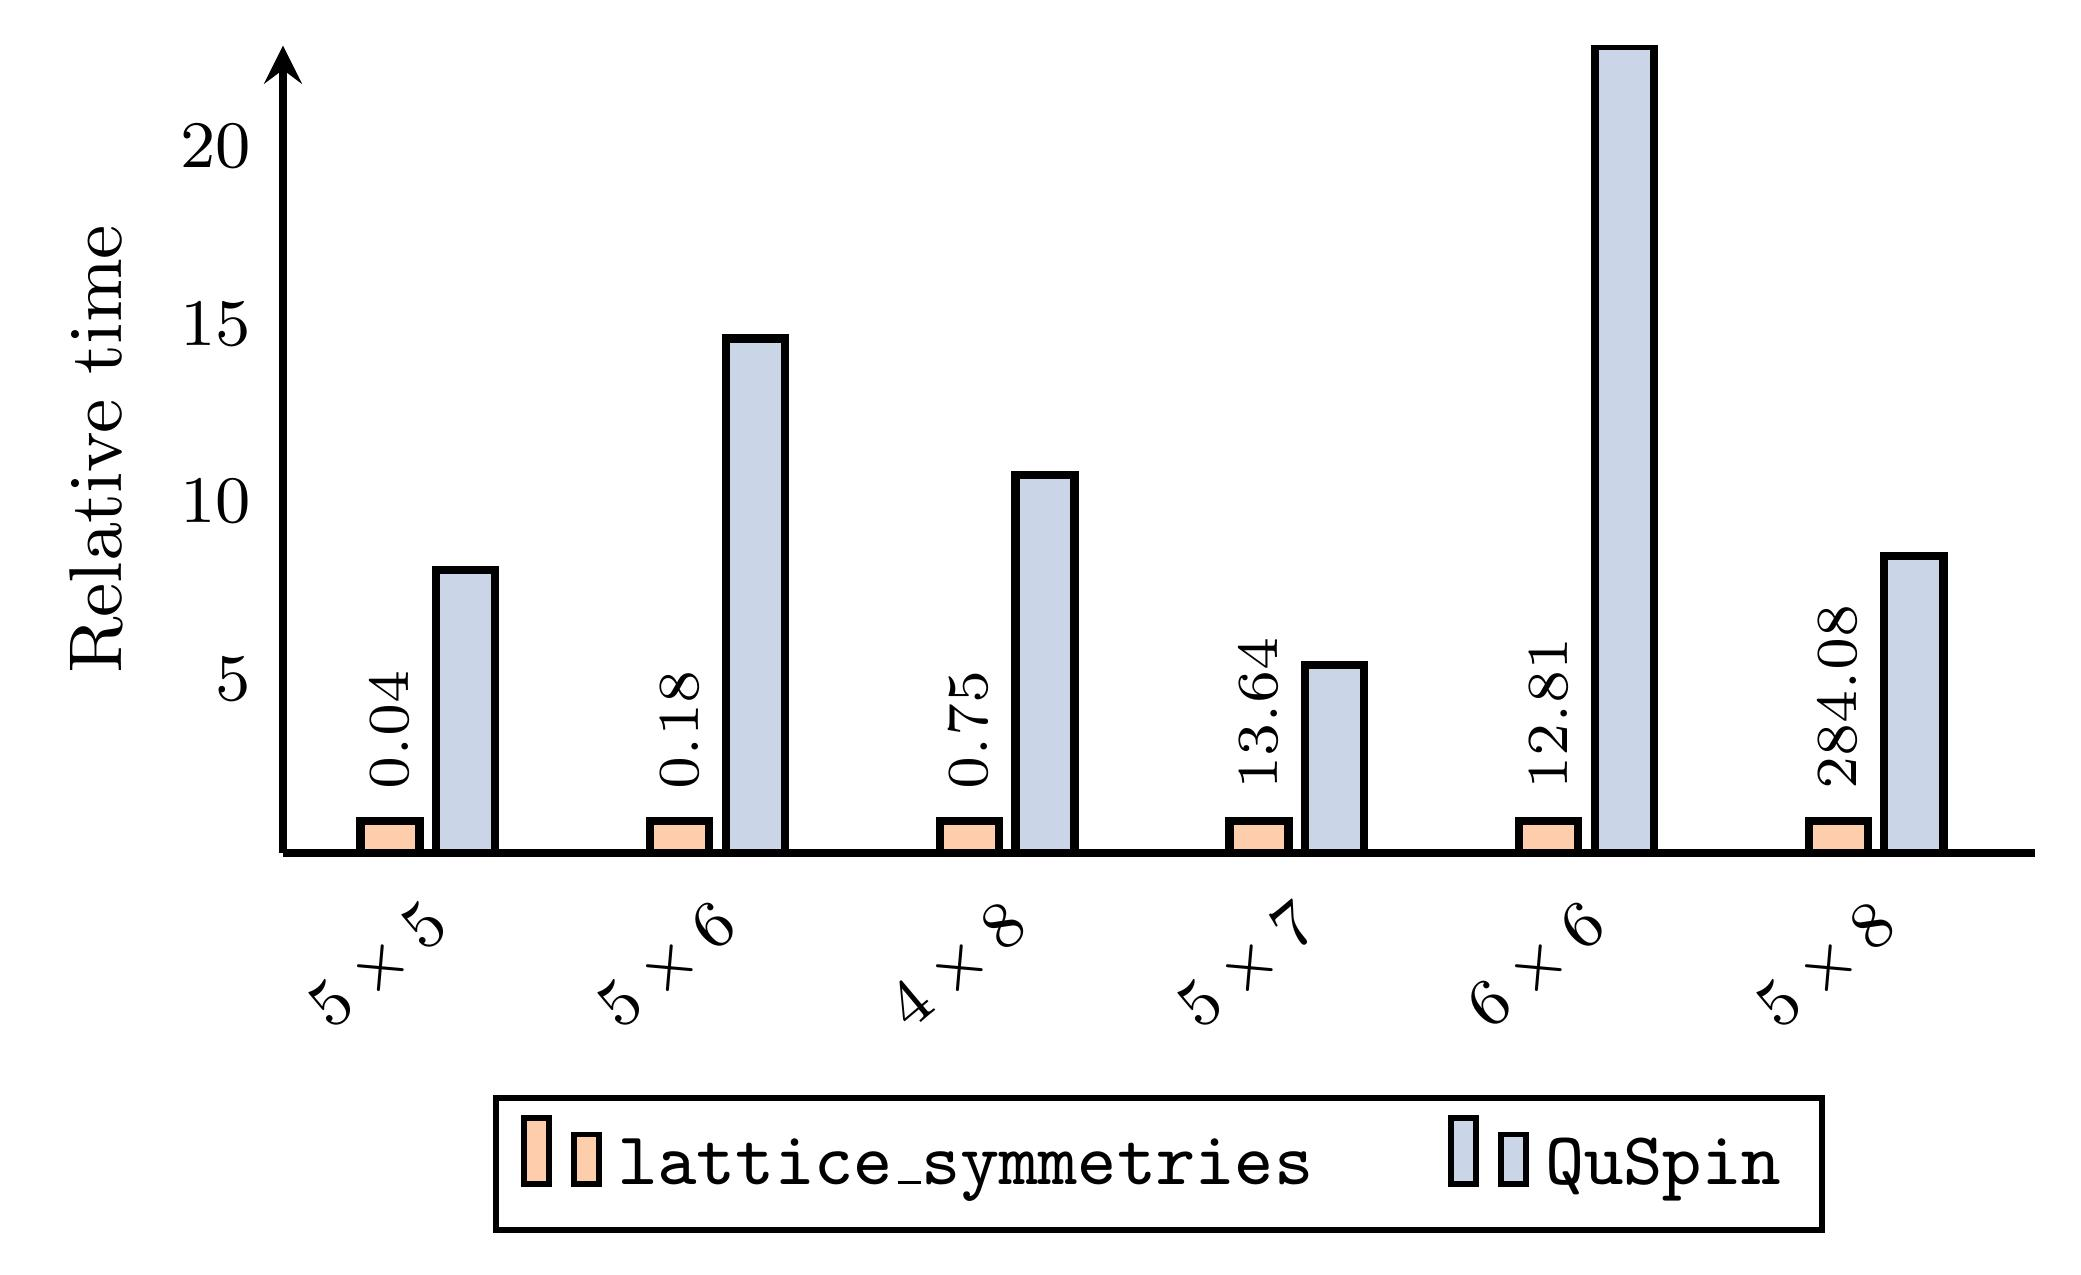
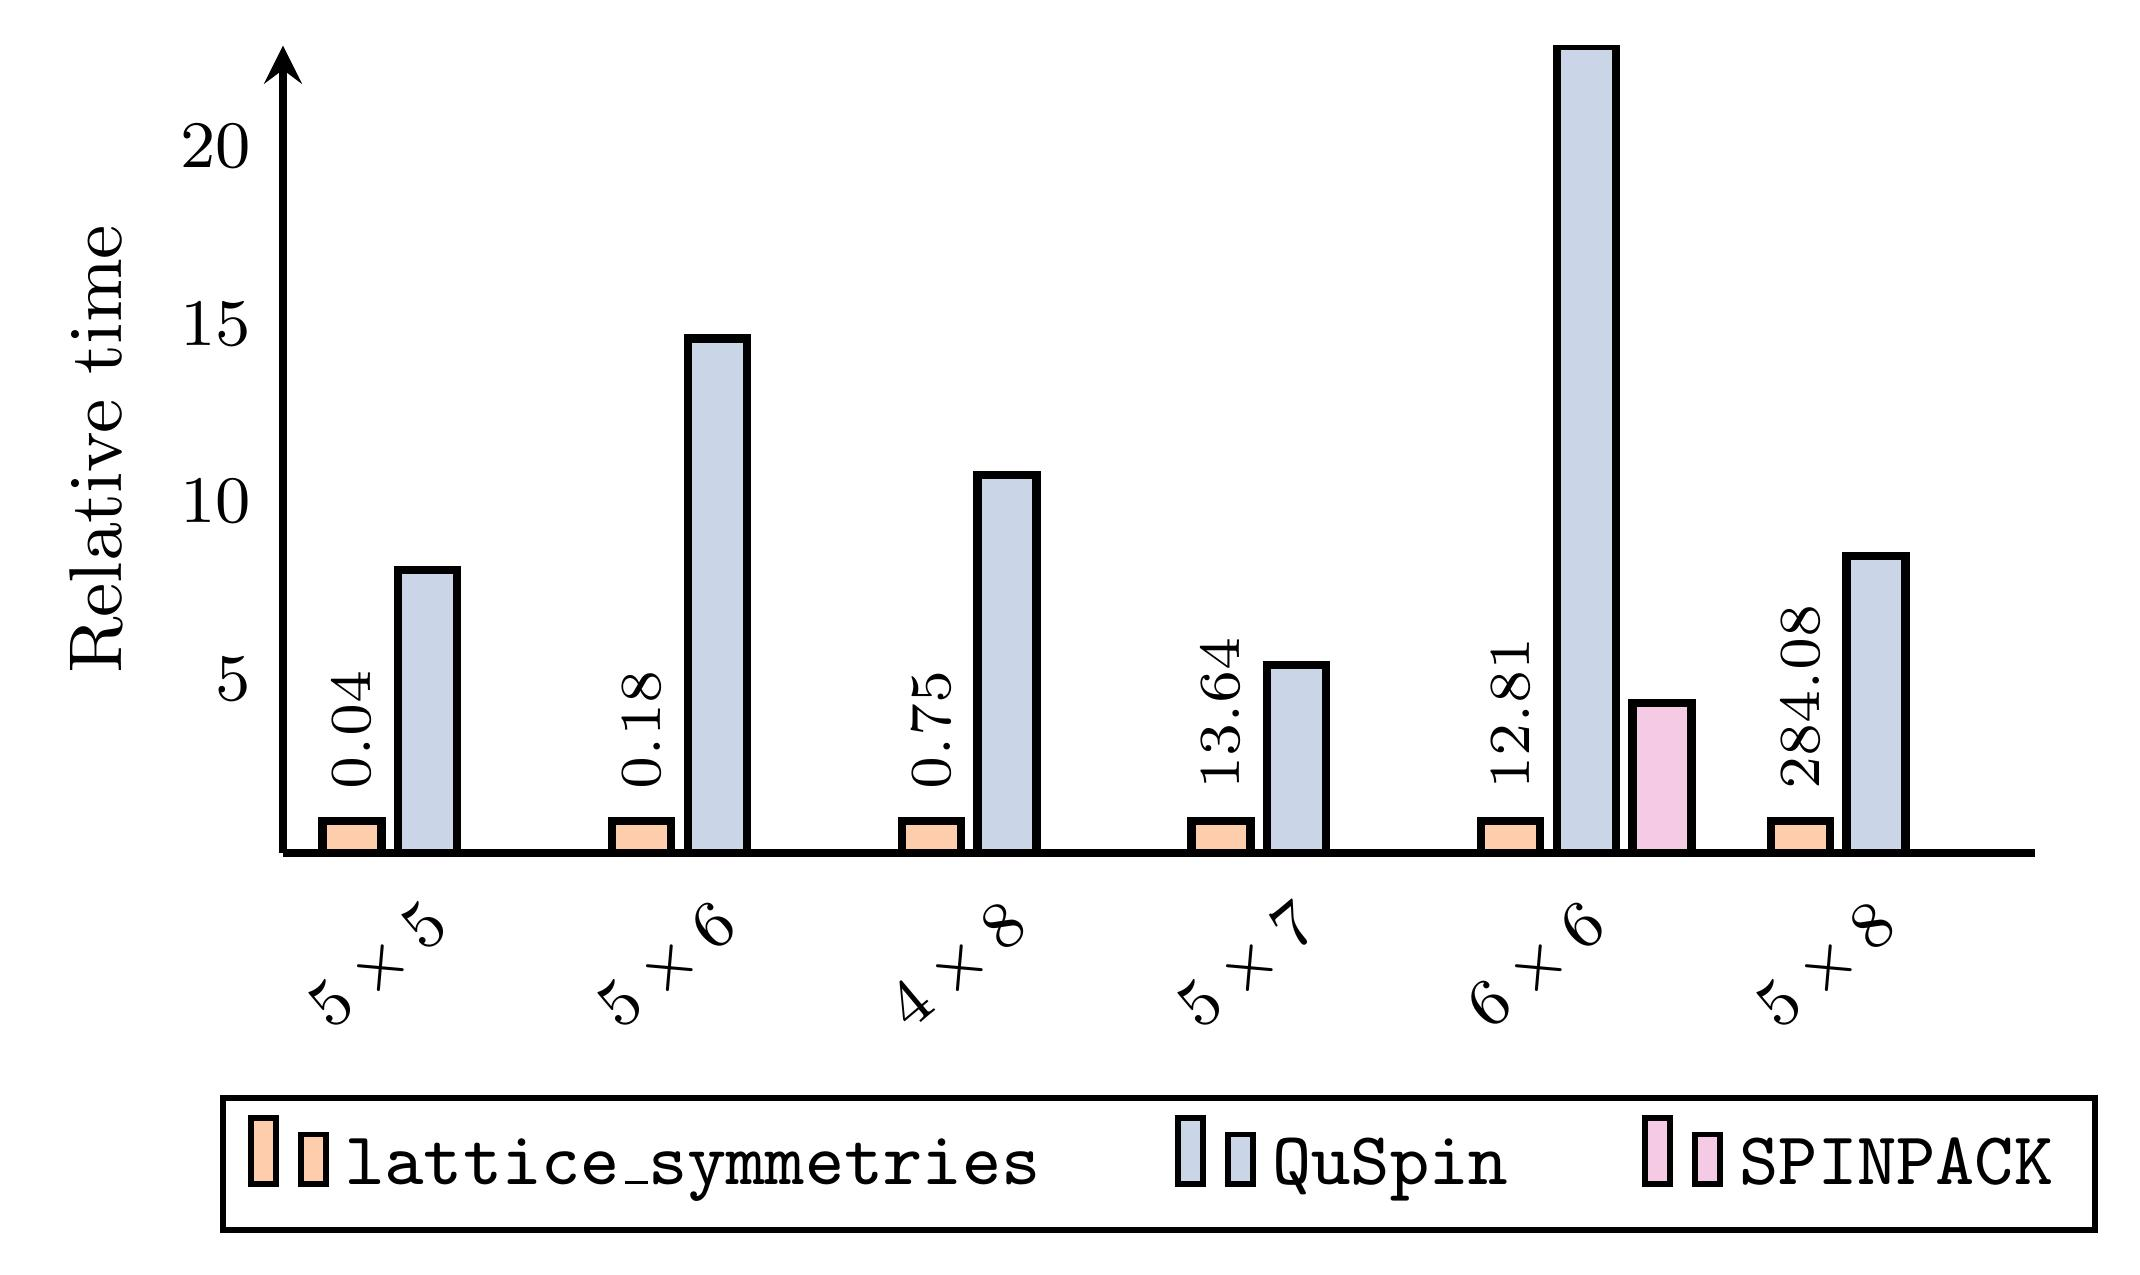
Add performance comparison against SPINPACK

diff --git a/benchmark/02_operator_application.tex b/benchmark/02_operator_application.tex
@@ -18,7 +18,7 @@
         axis y line=left,
         bar width=0.25cm,
         xmin={[normalized]-0.5},
-        legend entries={\texttt{lattice\_symmetries}, \texttt{QuSpin}},
+        legend entries={\texttt{lattice\_symmetries}, \texttt{QuSpin}, \texttt{SPINPACK}},
         every axis legend/.append style={
             at={(0.5, -0.3)},
             anchor=north,
@@ -58,6 +58,10 @@
             draw=black,
             fill=Pastel2-C
         ] table [col sep=tab, y expr=\thisrow{quspin}/\thisrow{ls}]{cn71/02_operator_application_1.dat};
+        \addplot [
+            draw=black,
+            fill=Pastel2-D
+        ] table [col sep=tab, y expr=\thisrow{spinpack}/\thisrow{ls}]{spinpack/02_operator_application_1.dat};
     \end{axis}
 \end{tikzpicture}
 \end{document}

diff --git a/benchmark/spinpack/README.md b/benchmark/spinpack/README.md
@@ -1,0 +1,15 @@
+This folder contains files which were used to measure performance of `SPINPACK`.
+
+* Version: spinpack-2.58a;
+* [`Make_cfg.inc`](./Make_cfg.inc) specifies the compilation options (important
+  options are `-march=native`, `-DCONFIG_PTHREAD=64`, and `-DVecType=1`);
+* `./spinpack/exe/m_square 6 0 0 6 1 > daten.def` command was used to generate
+  [`daten.def`](./daten.def) input file.
+* `./spinpack/exe/spin -t64 --maxmem=0` command was used to perform the
+  diagonalization.
+* Timings are taken from `tmp/tri.txt` using the following command:
+  ~~~~~~sh
+  cat tmp/tri.txt | sed -E 's/\s+/,/g' | cut -d',' -f 5 | tr -d m > tri.txt.processed
+  ~~~~~~
+* We then fit a line through it to obtain `0.9244` minutes per iterations, i.e.
+  `55.5` seconds.
